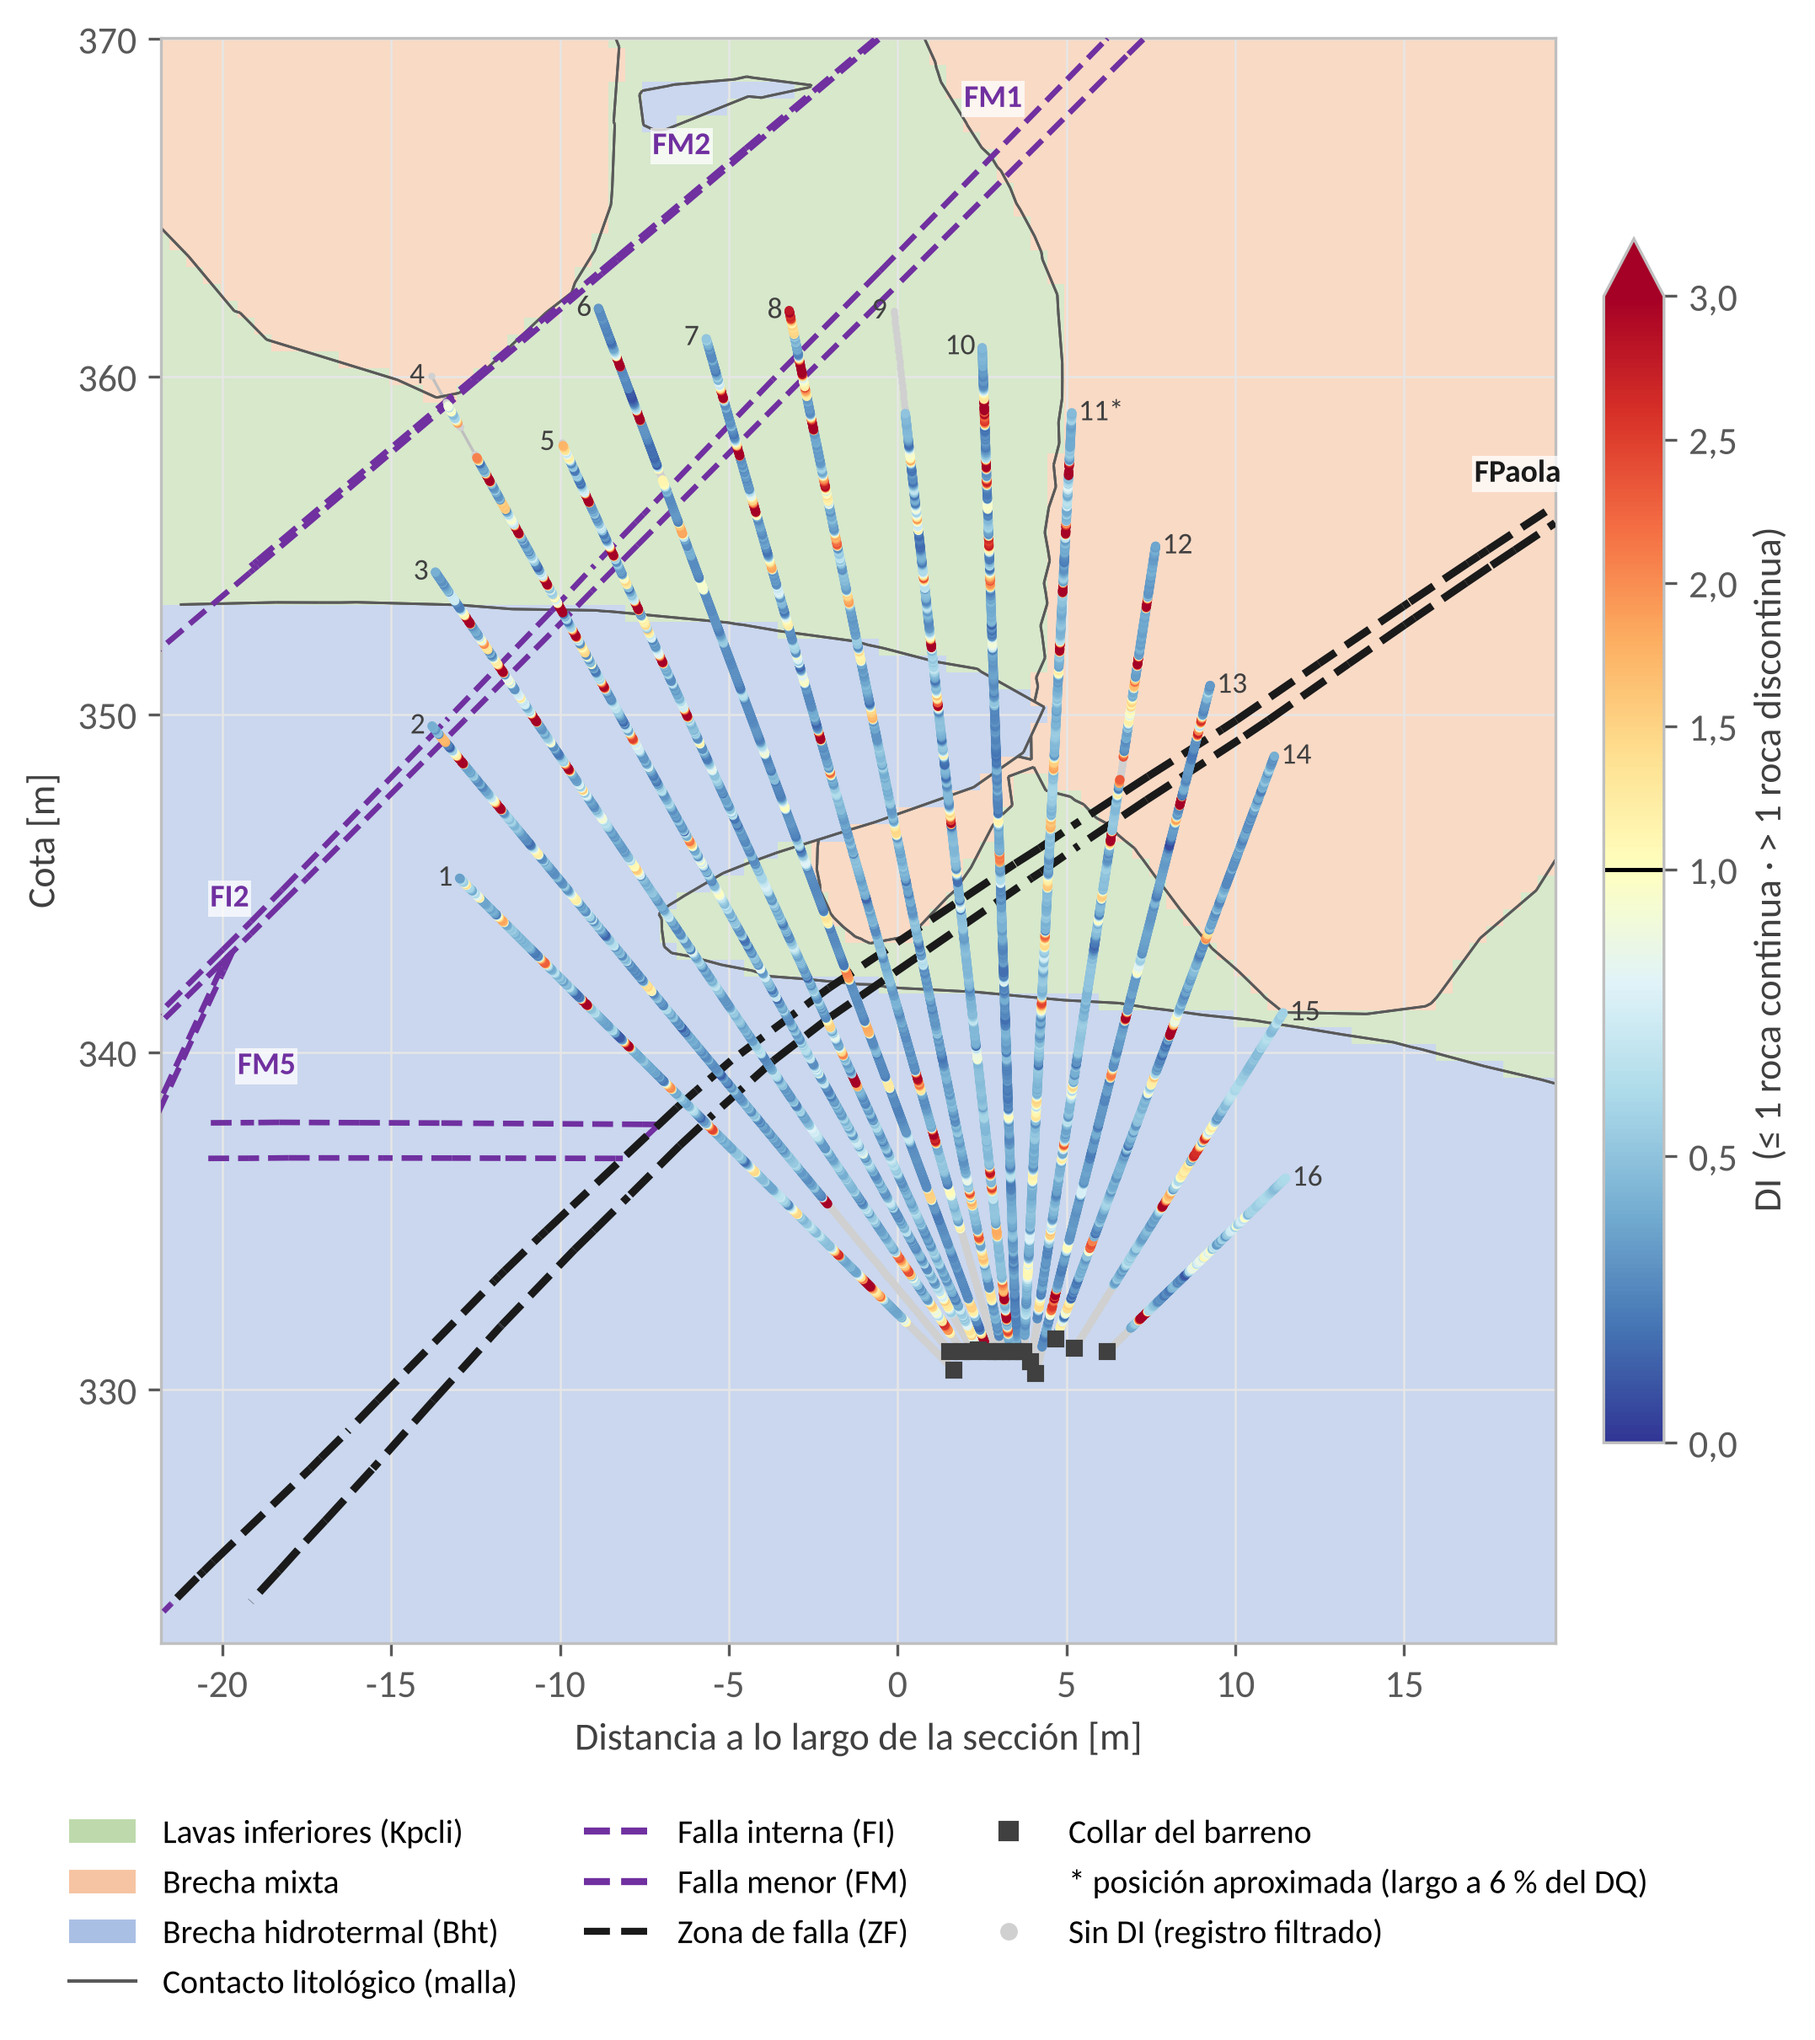
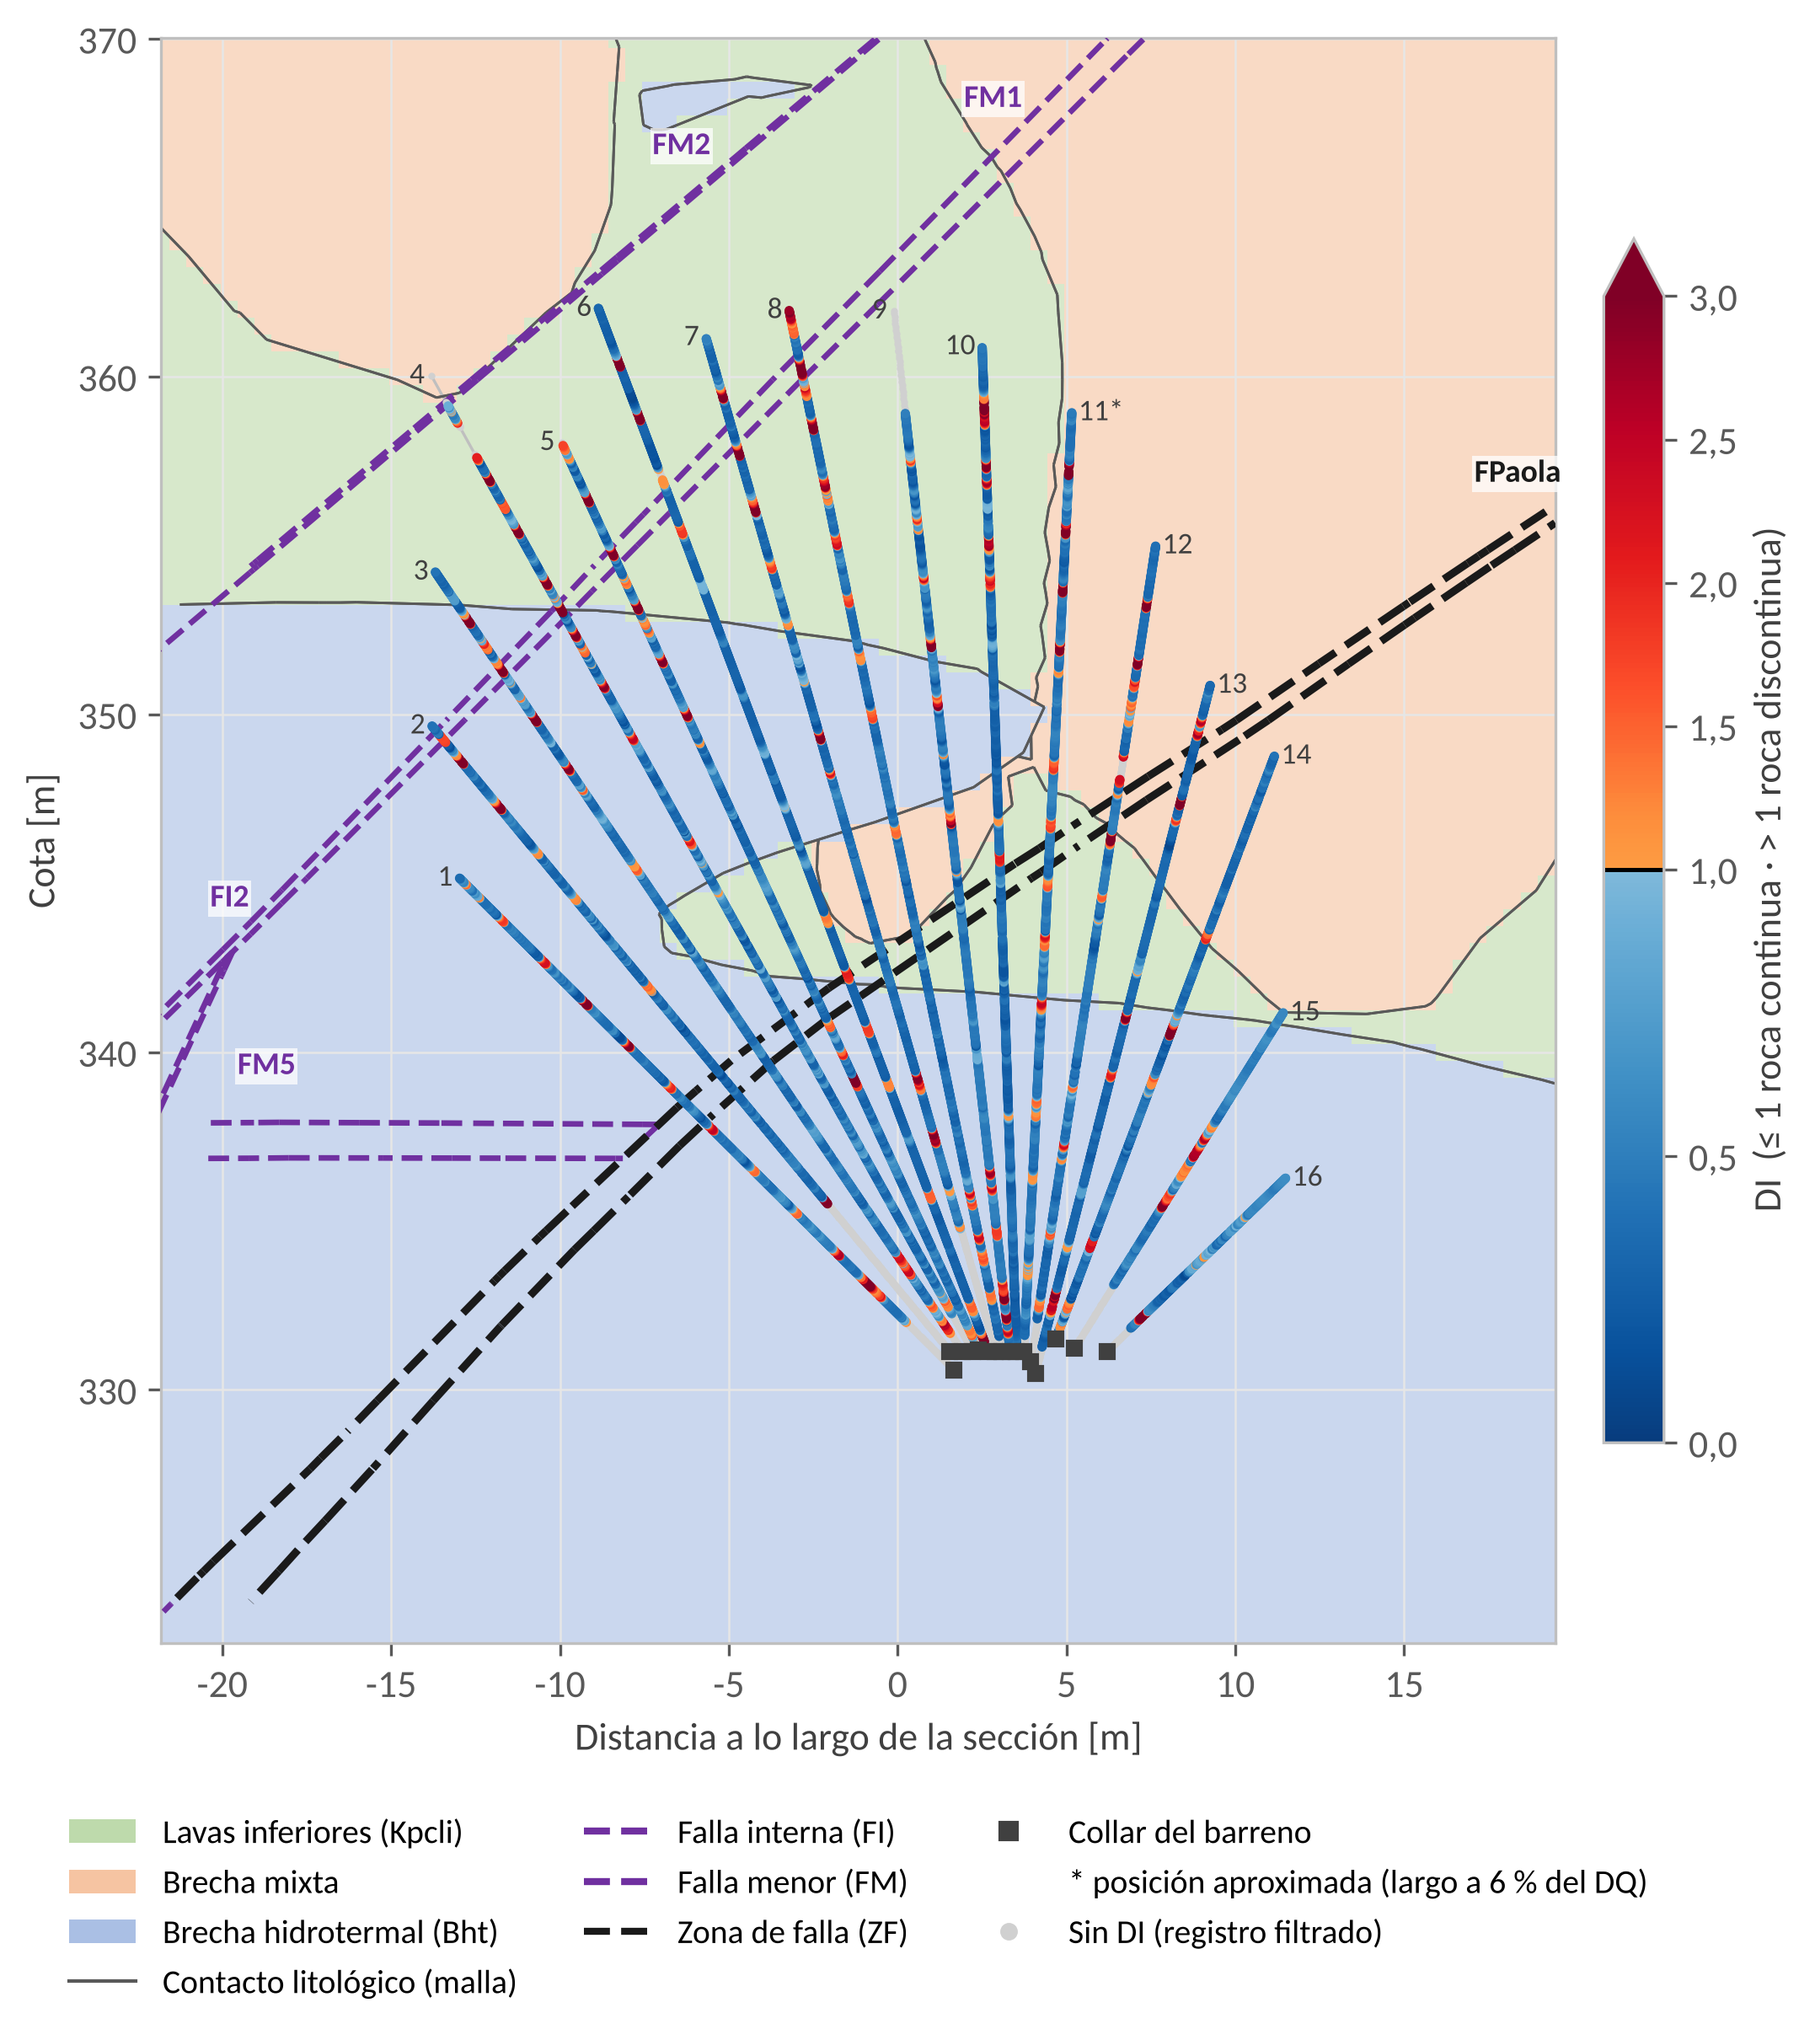
Sección P07 por DI: paleta de dos clases con corte nítido en DI = 1
Claude-Session: https://claude.ai/code/session_01MT9AkNnHr1e9AMWji6YncB

diff --git a/memoria_final/final/fig_seccion_abanico.py b/memoria_final/final/fig_seccion_abanico.py
@@ -159,7 +159,12 @@ if VAR == "di":
     from matplotlib.colors import TwoSlopeNorm
     if sin_di:
         SD = np.array(sin_di); ax.scatter(SD[:, 0], SD[:, 1], s=4, color="#D0D0D0", zorder=3, lw=0)
-    sc = ax.scatter(xs, ys, c=vs, s=7, cmap=cfg[4], norm=TwoSlopeNorm(vmin=0.0, vcenter=1.0, vmax=3.0), zorder=4, lw=0)
+    # Dos clases con corte nítido en DI = 1: azules para la roca continua
+    # (≤ 1) y naranjo a rojo para la discontinua (> 1), sin tono intermedio.
+    from matplotlib.colors import ListedColormap
+    _azul = plt.cm.Blues(np.linspace(0.95, 0.45, 128)); _rojo = plt.cm.YlOrRd(np.linspace(0.45, 1.0, 128))
+    cmap_di = ListedColormap(np.vstack([_azul, _rojo]))
+    sc = ax.scatter(xs, ys, c=vs, s=7, cmap=cmap_di, norm=TwoSlopeNorm(vmin=0.0, vcenter=1.0, vmax=3.0), zorder=4, lw=0)
     cb = fig.colorbar(sc, ax=ax, shrink=0.75, pad=0.015, extend="max", ticks=[0, 0.5, 1, 1.5, 2, 2.5, 3])
     cb.set_label("DI  (≤ 1 roca continua · > 1 roca discontinua)")
     cb.ax.axhline(1.0, color="black", lw=1.2)
